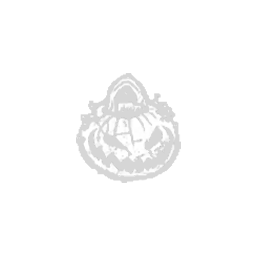
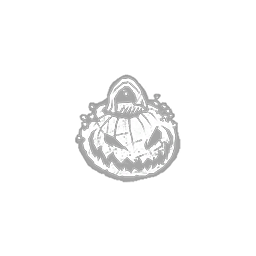
fixed db entry for halloween mystery box; added anniversary mystery box; updated border cutoff region to help with template matching; updated cheapskate and otz profiles for event

Changed region(s): [[0.2812, 0.2812, 0.7188, 0.7188]]

diff --git a/backend/node_detection.py b/backend/node_detection.py
@@ -41,7 +41,7 @@ class NodeDetection:
         height, width = y2 - y1, x2 - x1 # original dim
 
         # cut out border
-        margin_fraction = 4.5 # (1 / margin_fraction) around each side cut out
+        margin_fraction = 4.2 # (1 / margin_fraction) around each side cut out
         margin_y, margin_x = round(height / margin_fraction), round(width / margin_fraction)
         height, width = height - 2 * margin_y, width - 2 * margin_x # dim after removing margins
         unlockable = screenshot[(y1 + margin_y):(y2 - margin_y), (x1 + margin_x):(x2 - margin_x)]

diff --git a/backend/state.py b/backend/state.py
@@ -664,7 +664,7 @@ class StateProcess(Process):
                                       True, False))
 
 class State:
-    version = "v1.1.0"
+    version = "v1.1.1"
     pyautogui.FAILSAFE = False
 
     def __init__(self, pipe):
